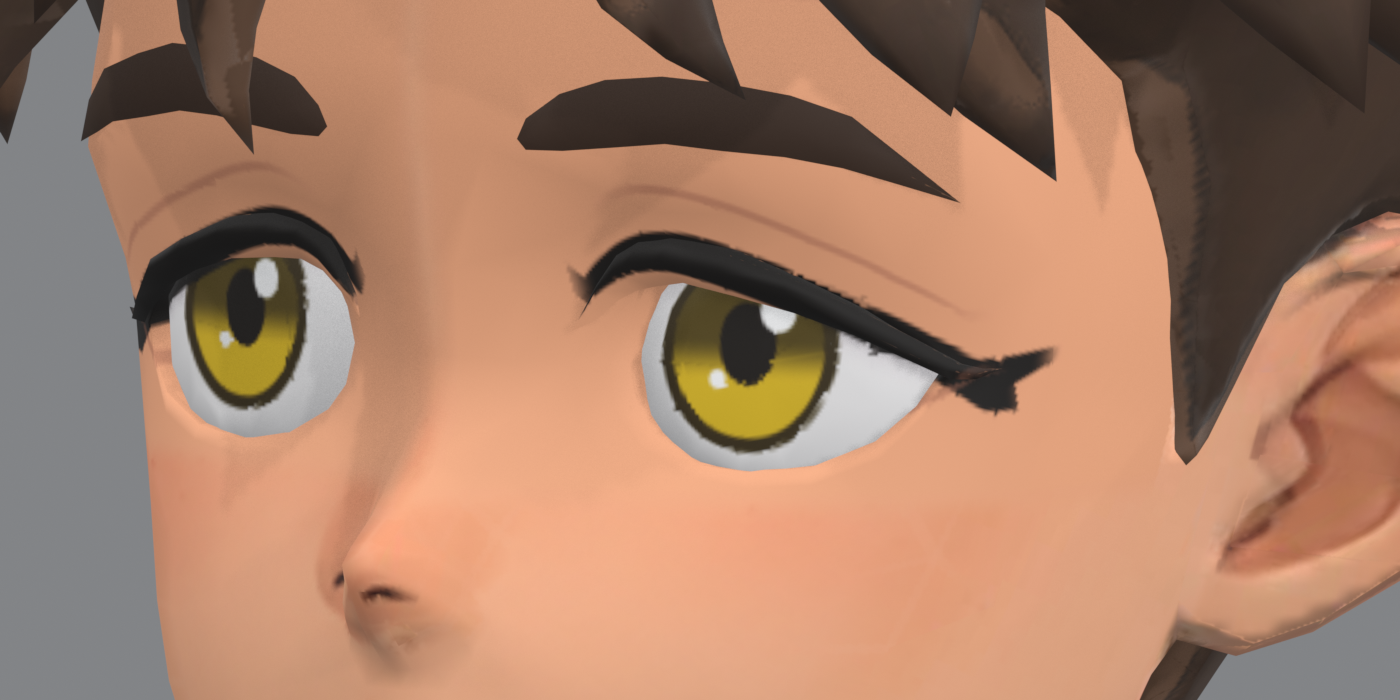
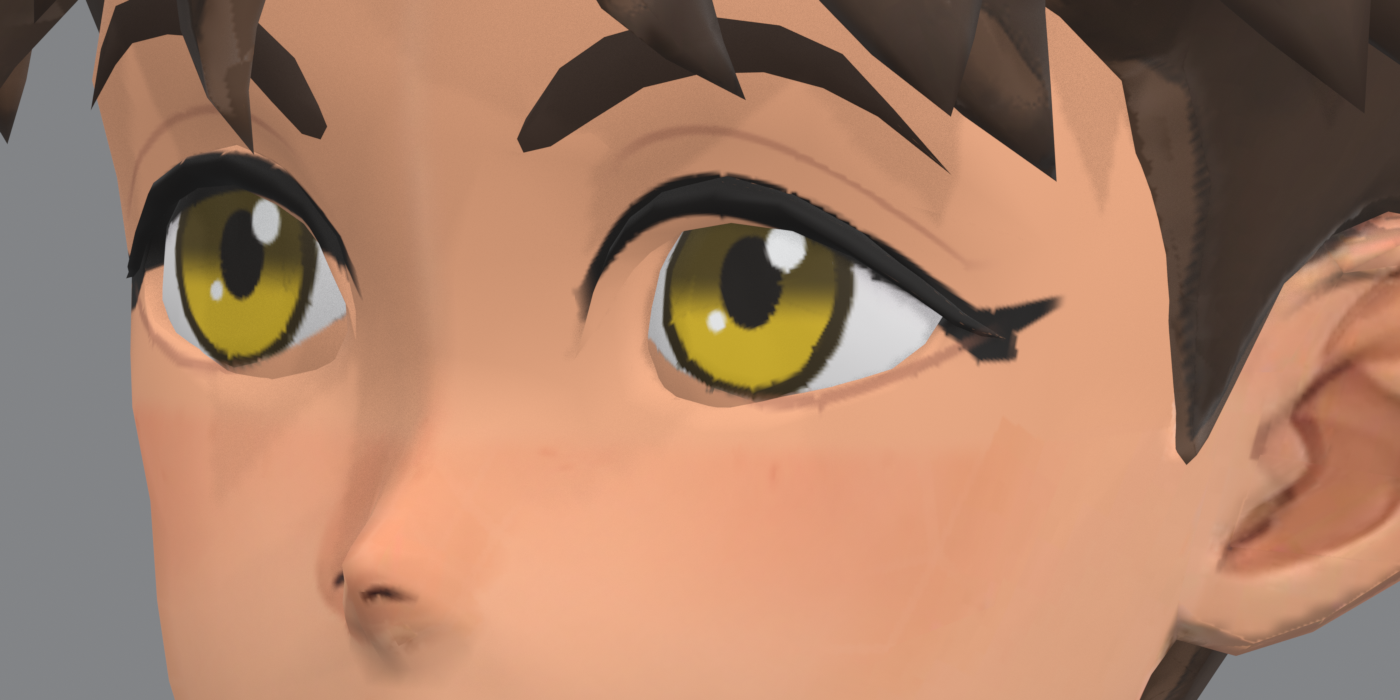
The boy's eyes reshaped to the drawing's: outer corners up, upper lid arched, lower lid drawn
Tripo's sockets slope down toward the outside (outer corner 0.22 eye widths below the inner, 0.07 in the drawing) and
sit low between their corners (corners 63% up the opening, 42% in the drawing), which read as sad. eyes.tilt turns
each eye region 8 degrees outer corner up and eyes.lift raises each eye's middle by 0.20 of its width with the
corners pinned, eyeball, lids and brow together, fading out before nose, temple, cheek and forehead. The eyes are
then painted on the reshaped sockets; the lower lid is drawn 0.23 eye widths below the corners (the drawing's
proportion, never below the eyeball's visible edge) and the eyeball under it is painted as skin, since Tripo's
eyeball bulges past the mesh's lower lid.

Changed region(s): [[0.3686, 0.03, 0.7679, 0.69], [0.0614, 0.0, 0.2764, 0.66]]

diff --git a/games/haras_valley/assets/characters/tools/eyes.py b/games/haras_valley/assets/characters/tools/eyes.py
@@ -4,9 +4,11 @@ Used by cleanup_face_hair.py (step 5). Projecting a drawing's eyes onto a Tripo 
 different size and shape from the sculpted socket, so skin shows inside the socket, the sculpted lid ridge cuts the
 iris, and Tripo's own eye paint, gloss and normal detail show through at the socket walls. Instead:
 
-1. Tripo builds the head from separate pieces: the hair cap, the face (with a hole at each eye) and one eyeball
-   behind each hole (head_parts). The opening of each eye is the rim of its hole seen from the front: its top and
-   bottom edges per 0.4 mm column, smoothed.
+1. Tripo builds the head from separate pieces: the hair cap, the face (with a hole at each eye), one eyeball behind
+   each hole, a brow strip above each eye and a cornea disc on each eyeball (head_parts). The upper lid and the
+   corners of each eye are the rim of its hole seen from the front, fitted with smooth quartic curves (outline).
+   The lower lid is drawn LOWER_LID eye widths below the corners, the drawing's proportion, but never below where
+   the eyeball is still visible from the front (visible_outline): the eyeball bulges past the mesh's lower lid.
 2. On the eyeball and the rim, an eye is drawn in the face sheet's style, analytically in front-view coordinates (so edges
    are as sharp as the texture allows): white with a shadow under the lid, an olive-to-yellow iris with a dark rim,
    a pupil, two highlights, a thick upper lash line ending in an outer wing, a crease above it, a short lower line.
@@ -34,6 +36,7 @@ PUPIL = np.array([.08, .05, .03], np.float32)
 HIGHLIGHT = np.array([1., 1., 1.], np.float32)
 
 CELL = 0.0004            # front-view grid for reading the openings (0.4 mm)
+LOWER_LID = 0.23         # the drawn lower lid's depth below the corners, in eye widths (the drawing's)
 EDGE = 0.0004            # antialiasing width: one texel, measured by paint() from the texture's density
 
 
@@ -190,7 +193,9 @@ class Eye:
         top, bottom = self.edges(y)
         top_c = np.where(np.isnan(top), np.nanmax(self.shape['top']), top)
         bottom_c = np.where(np.isnan(bottom), np.nanmin(self.shape['bottom']), bottom)
-        in_opening = on_eyeball.astype(np.float32)          # the eye paint goes on the eyeball only
+        lower_lid = inside(z - bottom_c) * inside(np.minimum(s, 1 - s) * abs(self.y_outer - self.y_inner))
+        in_opening = on_eyeball * lower_lid                  # the eye paint: on the eyeball, above the drawn lower lid
+        colour = over(colour, self.skin[None], on_eyeball * (1 - lower_lid) * (z < top_c))   # the drawn lower lid
         # White, darker under the lid.
         shade = smoothstep(.0, .32 * H, top_c - z)
         white = SCLERA_SHADOW[None] * (1 - shade[:, None]) + SCLERA[None] * shade[:, None]
@@ -237,8 +242,8 @@ class Eye:
         crease_z = top_c + .26 * H
         crease = np.where(np.isnan(top), 0.0, inside(.022 * H - np.abs(z - crease_z))) * smoothstep(.1, .3, s) * smoothstep(1.0, .85, s)
         colour = over(colour, CREASE[None], .45 * crease * (1 - on_eyeball))
-        lower = np.where(np.isnan(top), 0.0, inside(.022 * H - np.abs(z - bottom_c))) * smoothstep(.35, .6, s) * smoothstep(1.0, .9, s)
-        colour = over(colour, LOWER_LINE[None], .5 * lower * (1 - on_eyeball))
+        lower = inside(.03 * H - np.abs(z - bottom_c)) * smoothstep(.3, .55, s) * smoothstep(1.0, .88, s)
+        colour = over(colour, LOWER_LINE[None], .6 * lower)
         return colour, np.maximum.reduce([in_opening, band, wing])
 
     def brow(self, colour, y, z):
@@ -306,6 +311,22 @@ def paint(mesh, world, uv, colour, roughness, metallic, normal, texel_coverage, 
     sizes = [np.sqrt(densities[m, 0].sum() / densities[m, 1].sum()) for m in (densities[:, 2] == 0, densities[:, 2] == 1)]
     EDGE = float(max(sizes))                             # world size of one texel: the coarser of face and eyeball
 
+    # The lower lid is drawn, not taken from the mesh: Tripo's eyeball bulges past the lower lid, so its white would
+    # show far below the drawing's lower lid. The lid line runs LOWER_LID of the eye's width below the line through
+    # the corners (the drawing's proportion), never below the eyeball's visible edge; under it the eyeball is skin.
+    for k, eye in enumerate(eyes):
+        visible = visible_outline(points, eyeball_of, k, eye.shape)
+        ys = eye.shape['y']
+        s_ = eye.s(ys)
+        width = abs(eye.y_outer - eye.y_inner)
+        corner_inner = float(eye.edges(np.array([eye.y_inner]))[0][0])
+        corner_outer = float(eye.edges(np.array([eye.y_outer]))[0][0])
+        line = corner_inner + (corner_outer - corner_inner) * np.clip(s_, 0, 1)
+        designed = line - LOWER_LID * width * np.sin(np.pi * np.clip(s_, 0, 1)) ** .9
+        floor = np.interp(ys, visible['y'], visible['bottom'], left=-1, right=-1)
+        eye.shape = dict(eye.shape, bottom=np.maximum(designed, floor))
+        eye.height = float((eye.shape['top'] - eye.shape['bottom']).max())
+
     y, z = points[:, 1], points[:, 2]
     current = colour[rows, cols, :3].copy()
     skin_near = current[(skinness(current) > .9) & ~on_eyeball]
@@ -315,6 +336,8 @@ def paint(mesh, world, uv, colour, roughness, metallic, normal, texel_coverage, 
     zone = np.maximum(zone, (on_eyeball | on_brow).astype(np.float32))
     clean = zone * ~(on_eyeball | on_brow)          # all of it: Tripo's eye paint and the drawing's line art go
     current = over(current, skin[None], clean)
+    for eye in eyes:
+        eye.skin = skin
     current[on_brow] = BROW                       # Tripo's brow strips, in the drawing's brow colour
     for k, eye in enumerate(eyes):
         rim = hole_rim(mesh, world, parts['face'], parts['eyeball'][k], with_depth=True)
@@ -332,3 +355,129 @@ def paint(mesh, world, uv, colour, roughness, metallic, normal, texel_coverage, 
                      for e in eyes],
             'texel_size_mm': {'face': round(sizes[0] * 1000, 3), 'eyeball': round(sizes[1] * 1000, 3)}, 'texels_in_zone': int((zone > 0).sum()),
             'skin_colour': [round(float(c), 3) for c in skin], 'skin_roughness': round(skin_roughness, 3)}
+
+
+def visible_outline(points, eyeball_of, k, base_shape):
+    """The opening as seen from the front: cells of a 0.3 mm front-view grid where eyeball k is the frontmost
+    surface, then its top and bottom per column fitted like outline(). The eyeball bulges in front of the lower lid,
+    so this reaches lower than the face's hole rim."""
+    cell = .0003
+    y0, y1 = base_shape['y'].min() - .004, base_shape['y'].max() + .004
+    z0, z1 = base_shape['bottom'].min() - .008, base_shape['top'].max() + .004
+    columns, rows = int((y1 - y0) / cell), int((z1 - z0) / cell)
+    col = ((points[:, 1] - y0) / cell).astype(int)
+    row = ((z1 - points[:, 2]) / cell).astype(int)
+    keep = (col >= 0) & (col < columns) & (row >= 0) & (row < rows)
+    flat = row[keep] * columns + col[keep]
+    depth = points[keep, 0]
+    order = np.lexsort((-depth, flat))
+    first = np.r_[True, flat[order][1:] != flat[order][:-1]]
+    owner = np.full(rows * columns, -9)
+    owner[flat[order][first]] = eyeball_of[keep][order][first]
+    mask = (owner == k).reshape(rows, columns)
+    known = (owner != -9).reshape(rows, columns)
+    # Fill empty cells from their neighbours (the texel grid is sparser than the cells in places).
+    padded = np.pad(mask, 1)
+    mask = mask | (~known & (padded[:-2, 1:-1] & padded[2:, 1:-1] | padded[1:-1, :-2] & padded[1:-1, 2:]))
+    ys, tops, bottoms = [], [], []
+    for c in range(columns):
+        r = np.nonzero(mask[:, c])[0]
+        if len(r) < 3:
+            continue
+        ys.append(y0 + (c + .5) * cell)
+        tops.append(z1 - r.min() * cell)
+        bottoms.append(z1 - (r.max() + 1) * cell)
+    rim = np.array([[y, t] for y, t in zip(ys, tops)] + [[y, b] for y, b in zip(ys, bottoms)])
+    return outline(rim)
+
+
+def tilt(mesh, world, parts, degrees, inner_radius=.019, outer_radius=.026):
+    """Raise each eye's outer corner: rotate the eye region about the front-view axis through the eye's centre.
+
+    Tripo's sockets slope down toward the outside (outer corner 0.22 eye widths below the inner one, against 0.07 in
+    the drawing), which reads as sad. Each eyeball turns rigidly by `degrees`; the face and the brow strip turn with it
+    up to inner_radius from the eye's centre (front view), fading to nothing at outer_radius, only on the front of the
+    head. Vertices keep their depth (x). Run after painting: the paint turns with the surface."""
+    import math
+    from mathutils import Vector
+    inverse = world.inverted()
+    shapes = [outline(hole_rim(mesh, world, parts['face'], eyeball)) for eyeball in parts['eyeball']]
+    midline = (np.mean(shapes[0]['y']) + np.mean(shapes[1]['y'])) / 2
+    face_vertices = {v for i in parts['face'] for v in mesh.polygons[i].vertices}
+    brow_vertices = {v for i in parts['brows'] for v in mesh.polygons[i].vertices}
+    record = []
+    moved = {}
+    for shape, eyeball in zip(shapes, parts['eyeball']):
+        eye = Eye(shape, midline)
+        top, bottom = eye.edges(np.array([eye.y_inner, eye.y_outer]))
+        pivot_y = (eye.y_inner + eye.y_outer) / 2
+        pivot_z = float(np.mean([top, bottom]))
+        outward = np.sign(eye.y_outer - eye.y_inner)            # -1 for his right eye, +1 for his left
+        angle = math.radians(degrees) * outward                 # outer corner up
+        c, s = math.cos(angle), math.sin(angle)
+        eyeball_vertices = {v for i in eyeball for v in mesh.polygons[i].vertices}
+        for index in eyeball_vertices | face_vertices | brow_vertices:
+            point = world @ mesh.vertices[index].co
+            dy, dz = point.y - pivot_y, point.z - pivot_z
+            r = math.hypot(dy, dz)
+            if index in eyeball_vertices:
+                weight = 1.0
+            else:
+                if r > outer_radius or point.x < -.01:
+                    continue
+                weight = float(smoothstep(outer_radius, inner_radius, r)) * float(smoothstep(-.01, .01, point.x))
+            if weight <= 0:
+                continue
+            a = angle * weight
+            ca, sa = math.cos(a), math.sin(a)
+            target = Vector((point.x, pivot_y + dy * ca - dz * sa, pivot_z + dy * sa + dz * ca))
+            moved[index] = inverse @ target
+        corner = Vector((0, eye.y_outer - pivot_y, float(top[1]) - pivot_z))
+        record.append({'pivot': [round(pivot_y, 4), round(pivot_z, 4)], 'degrees': round(math.degrees(angle), 2),
+                       'outer_corner_rise_mm': round((corner.y * s + corner.z * c - corner.z) * 1000, 2)})
+    for index, co in moved.items():
+        mesh.vertices[index].co = co
+    mesh.update()
+    return {'eyes': record, 'vertices_moved': len(moved)}
+
+
+def lift(mesh, world, parts, fraction):
+    """Open each eye like the drawing's: lift its middle by `fraction` of its width, corners pinned.
+
+    In the drawing the corners sit 42% of the opening's height above the lower lid; on Tripo's sockets 63%, so the
+    upper lid hangs low and the lower lid sags, which reads as tired and sad. Raising the middle of the eye (lower
+    lid, eyeball, upper lid and brow together) by about 0.11 of its width puts the corners back at 42%. The lift is
+    sin(pi s) across the eye (zero at both corners and beyond them), full from just under the lower lid through the
+    brow, fading out into the cheek below and the forehead above, and only on the front of the head."""
+    import math
+    from mathutils import Vector
+    inverse = world.inverted()
+    shapes = [outline(hole_rim(mesh, world, parts['face'], eyeball)) for eyeball in parts['eyeball']]
+    midline = (np.mean(shapes[0]['y']) + np.mean(shapes[1]['y'])) / 2
+    vertices = {v for i in parts['face'] | parts['eyeballs'] | parts['brows'] for v in mesh.polygons[i].vertices}
+    offsets = {}
+    record = []
+    for shape in shapes:
+        eye = Eye(shape, midline)
+        width = abs(eye.y_outer - eye.y_inner)
+        amount = fraction * width
+        bottom, top = float(np.min(shape['bottom'])), float(np.max(shape['top']))
+        for index in vertices:
+            point = world @ mesh.vertices[index].co
+            if point.x < -.005:
+                continue
+            s = float(eye.s(point.y))
+            if not 0 < s < 1:
+                continue
+            across = math.sin(math.pi * s) ** .8
+            down = float(smoothstep(bottom - .010, bottom - .002, point.z) * smoothstep(top + .024, top + .014, point.z))
+            front = float(smoothstep(-.005, .01, point.x))
+            dz = amount * across * down * front
+            if dz > 1e-6:
+                offsets[index] = offsets.get(index, 0.0) + dz
+        record.append({'lift_mm': round(amount * 1000, 2), 'width_mm': round(width * 1000, 1)})
+    for index, dz in offsets.items():
+        point = world @ mesh.vertices[index].co
+        mesh.vertices[index].co = inverse @ Vector((point.x, point.y, point.z + dz))
+    mesh.update()
+    return {'eyes': record, 'vertices_moved': len(offsets)}

diff --git a/games/haras_valley/assets/characters/tools/cleanup_face_hair.py b/games/haras_valley/assets/characters/tools/cleanup_face_hair.py
@@ -4,7 +4,7 @@
     --input model-r03/raw/output_model_url.fbx --references references --output cleanup-r01
 
 Tripo's texture made the face older and tanner than the drawings (darker skin, no blush, small murky eyes, heavy
-brows) and its hair shorter and greyer. Five fixes, textures and vertices only, no retopology:
+brows) and its hair shorter and greyer, and its eyes slope down toward the outside, which reads as sad. Six fixes, textures and vertices only, no retopology:
 
 1. Face projection. The front portrait (`--face`, painted by tools/face_portrait.py; without it the face sheet's
    top-left cell) is projected onto the face with the affine map that puts its irises and mouth line (found in the
@@ -18,9 +18,14 @@ brows) and its hair shorter and greyer. Five fixes, textures and vertices only, 
 4. Hair length. Hair vertices move away from the skull centre by HAIR_STRETCH of their height above the skull, and
    the fringe's also drop by FRINGE_DROOP of it, so the spikes grow and the fringe comes down toward the brows as
    drawn; the scalp does not move.
-5. Eyes and brows. The projected drawing's eyes do not fit Tripo's sculpted sockets, so eyes.py paints clean cel
-   eyes onto the eyeballs inside each socket's rim, colours the brow strips, clears Tripo's eye paint, gloss and
-   normal detail around them, and the cornea discs are removed (see eyes.py).
+5. Eye shape. Tripo's eyes slope down toward the outside and sit low between their corners, which reads as sad.
+   Each eye region turns by EYE_TILT_DEGREES, outer corner up (eyes.tilt), then the middle of each eye (lower lid,
+   eyeball, upper lid and brow) rises by EYE_LIFT of its width with the corners pinned (eyes.lift), so the upper lid
+   arches 0.32 eye widths above the corners as in the drawing; eyes.py draws the lower lid 0.23 below them, so the
+   corners sit 42% of the way up the opening. Both fade out before the nose, temple, cheek and forehead.
+6. Eyes and brows. The projected drawing's eyes do not fit Tripo's sculpted sockets, so eyes.py paints clean cel
+   eyes onto the eyeballs inside each reshaped socket's rim, colours the brow strips, clears Tripo's eye paint, gloss
+   and normal detail around them, and the cornea discs are removed (see eyes.py).
 
 The output is a .blend with the four texture maps packed, a GLB beside it and cleanup.json with the measurements.
 """
@@ -44,7 +49,9 @@ MODEL_EYE_MID_Y, MODEL_EYE_Z, MODEL_EYE_SPACING, MODEL_MOUTH_Z = -0.0058, 0.378,
 FACE_FADE = (0.35, 0.75)               # normal x over which the projection fades in (the sides keep Tripo's paint)
 CHIN_FADE = (0.324, 0.338)             # z over which it fades out above the chin's drawn outline
 HAIR_STRETCH = 0.40
-FRINGE_DROOP = 0.35                    # strands in front of the skull also drop by this much of their height
+FRINGE_DROOP = 0.35
+EYE_TILT_DEGREES = 8.0                 # outer corners up: from Tripo's 12 degree droop to the drawing's 4
+EYE_LIFT = 0.20                        # the eye's middle up by this much of its width: the drawing's upper-lid arch                    # strands in front of the skull also drop by this much of their height
 HAIR_LUMINANCE = 0.42                  # below this a warm texel is hair (or brow, or pupil)
 
 
@@ -294,7 +301,12 @@ def main():
                 node.image = fresh
         fresh.pack()
 
-    # 5. Eyes and brows: clean cel eyes fitted to the sculpted sockets, one brow stroke each (eyes.py).
+    # 5. Eye shape, before the eyes are painted on it: the outer corners up to the drawing's slant, then the middle of
+    # each eye lifted so the corners sit where the drawing's do (Tripo's droop and low lids read as sad).
+    tilt_record = eyes.tilt(mesh, world, parts, EYE_TILT_DEGREES)
+    lift_record = eyes.lift(mesh, world, parts, EYE_LIFT)
+
+    # 6. Eyes and brows: clean cel eyes fitted to the reshaped sockets (eyes.py).
     roughness_image, metallic_image = image_for(material, 'Roughness'), image_for(material, 'Metallic')
     roughness_data = np.array(roughness_image.pixels[:], dtype=np.float32).reshape(height, width, 4)
     metallic_data = np.array(metallic_image.pixels[:], dtype=np.float32).reshape(height, width, 4)
@@ -350,7 +362,7 @@ def main():
         'skin_gain': [round(float(c), 3) for c in skin_gain], 'skin_texels_matched': int(rest.sum()),
         'hair_median_before': [round(float(c), 3) for c in hair_before], 'hair_target': [round(float(c), 3) for c in hair_target],
         'hair_texels_recoloured': int(hair_mask.sum()), 'hair_polygons': len(hair_polygons),
-        'eyes': eye_record, 'cornea_disc_polygons_removed': len(parts['discs']), 'hair_vertices_moved': len(hair_vertices), 'largest_hair_move': round(largest, 4), 'hair_stretch': HAIR_STRETCH, 'fringe_droop': FRINGE_DROOP,
+        'eyes': eye_record, 'eye_tilt': tilt_record, 'eye_lift': lift_record, 'cornea_disc_polygons_removed': len(parts['discs']), 'hair_vertices_moved': len(hair_vertices), 'largest_hair_move': round(largest, 4), 'hair_stretch': HAIR_STRETCH, 'fringe_droop': FRINGE_DROOP,
     }
     (output / 'cleanup.json').write_text(json.dumps(record, indent=2) + '\n')
     print(json.dumps(record, indent=1), flush=True)

diff --git a/games/haras_valley/assets/characters/boy/README.md b/games/haras_valley/assets/characters/boy/README.md
@@ -51,6 +51,10 @@ eyeball. The rim of each hole is the eye's outline; a clean cel eye in the drawi
 to yellow iris, rim, pupil, two highlights, thick lash line with an outer wing, crease, short lower line) is drawn
 into it on the eyeball, the brow strips take the drawing's brow colour, the face around them is cleared to skin with
 a flat normal map and the skin's roughness, and the cornea discs are removed.
+Tripo's eyes also sloped down toward the outside and sat low between their corners, which read as sad. Before the
+eyes are painted, each eye region turns 8 degrees outer corner up and its middle rises by 0.20 of its width with the
+corners pinned (`eyes.tilt`, `eyes.lift`), so the upper lid arches as drawn; the lower lid is painted 0.23 eye widths
+below the corners, as in the drawing, and the eyeball below it is painted as skin.
 `eyes-closeup-front.png` and `eyes-closeup-three-quarter.png` show the result up close. `face_closeup.py` renders the face
 at 1200 px from a review blend; `compare-face.png` shows the sheet, Tripo's face, the cleaned face and its
 three-quarter. For a crisper source than the 512 px sheet cell, `games/haras_valley/tools/face_portrait.py` paints a
